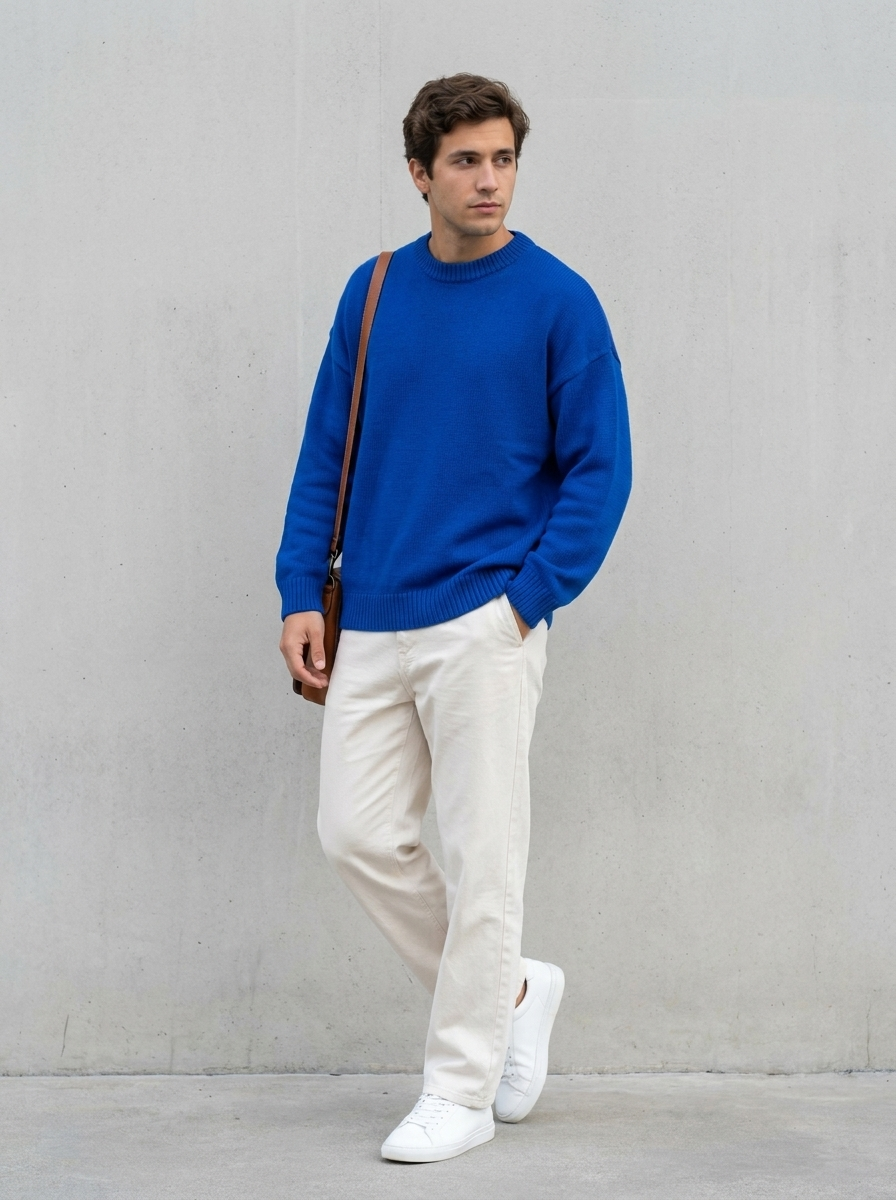
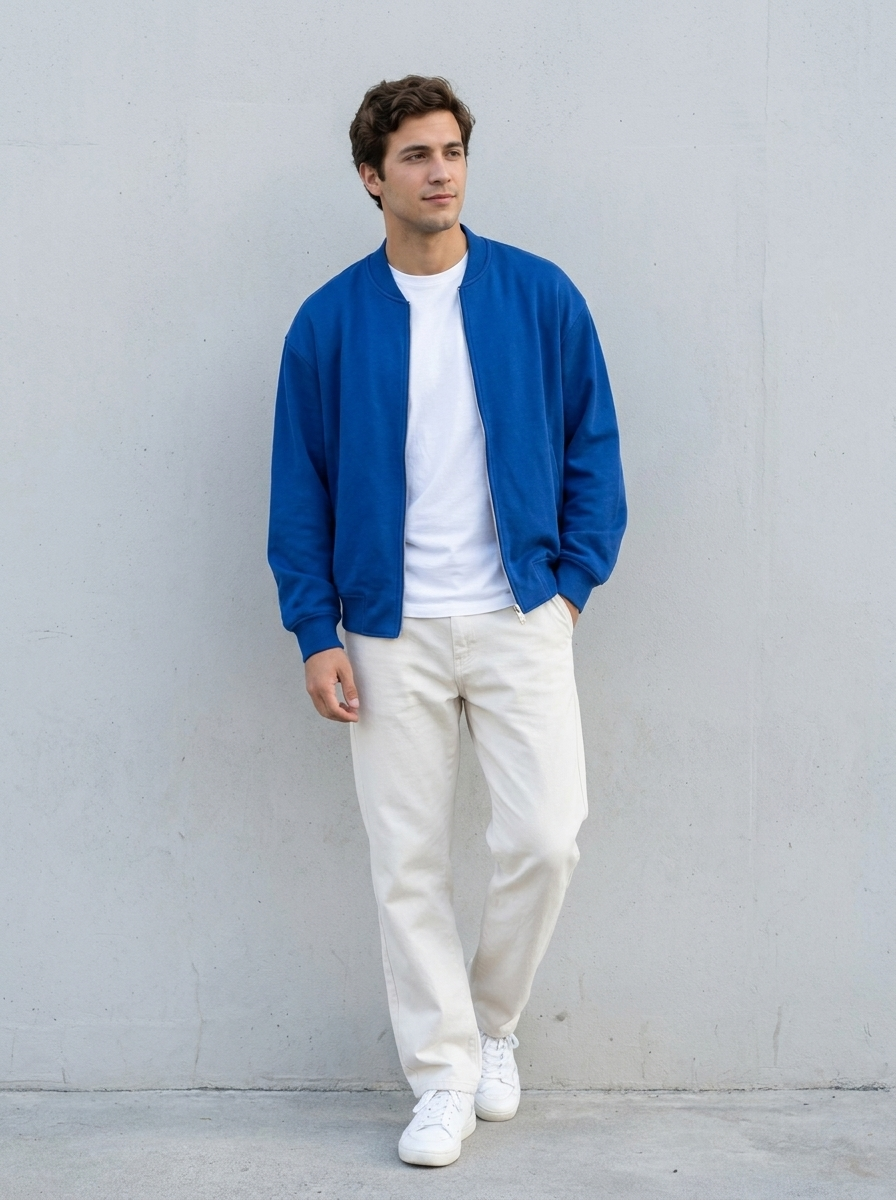
fix(swipe): styling real en monocromático/color/tonos-tierra — no crew+chino recoloreado (v0.2.9.1)
Feedback de Roberto: tres cartas de hombre (+ mono mujer) eran el mismo
molde crew-neck + pantalón recto con otra paleta, cero styling. Re-
especificadas con decisiones de estilista y un recurso DISTINTO cada
una (para no volverlas gemelas): mono = chaleco de lana sobre knit
acanalado, textura sobre un tono (distinto de Coreano: columna, no
drape con abrigo largo); color-protagonista = la pieza de color como
bomber statement en capa; tonos-tierra = overshirt de pana + mezcla de
texturas + morral. QA visual 1:1.

Changed region(s): [[0.0, 0.0617, 0.7188, 0.9867], [0.6562, 0.8942, 0.875, 0.9867], [0.9062, 0.8633, 1.0, 0.925]]

diff --git a/CHANGELOG.md b/CHANGELOG.md
@@ -2,6 +2,12 @@
 
 Cambios notables de stailist. Formato basado en [Keep a Changelog](https://keepachangelog.com/es/); versiones `MAJOR.MINOR.PATCH.MICRO`.
 
+## [0.2.9.1] - 2026-07-22
+
+### Fixed
+
+- **Monocromático, Color protagonista y Tonos tierra** (hombre; + Monocromático mujer) del swipe eran el mismo molde recoloreado — crew neck + pantalón recto, cero styling. Ahora cada uno tiene decisiones reales de estilista: Monocromático juega textura con un chaleco de lana sobre knit acanalado (columna de un tono, no plano), Color protagonista pone el color como bomber statement en capa, y Tonos tierra suma un overshirt de pana con mezcla de texturas y capas.
+
 ## [0.2.9.0] - 2026-07-22
 
 ### Added
